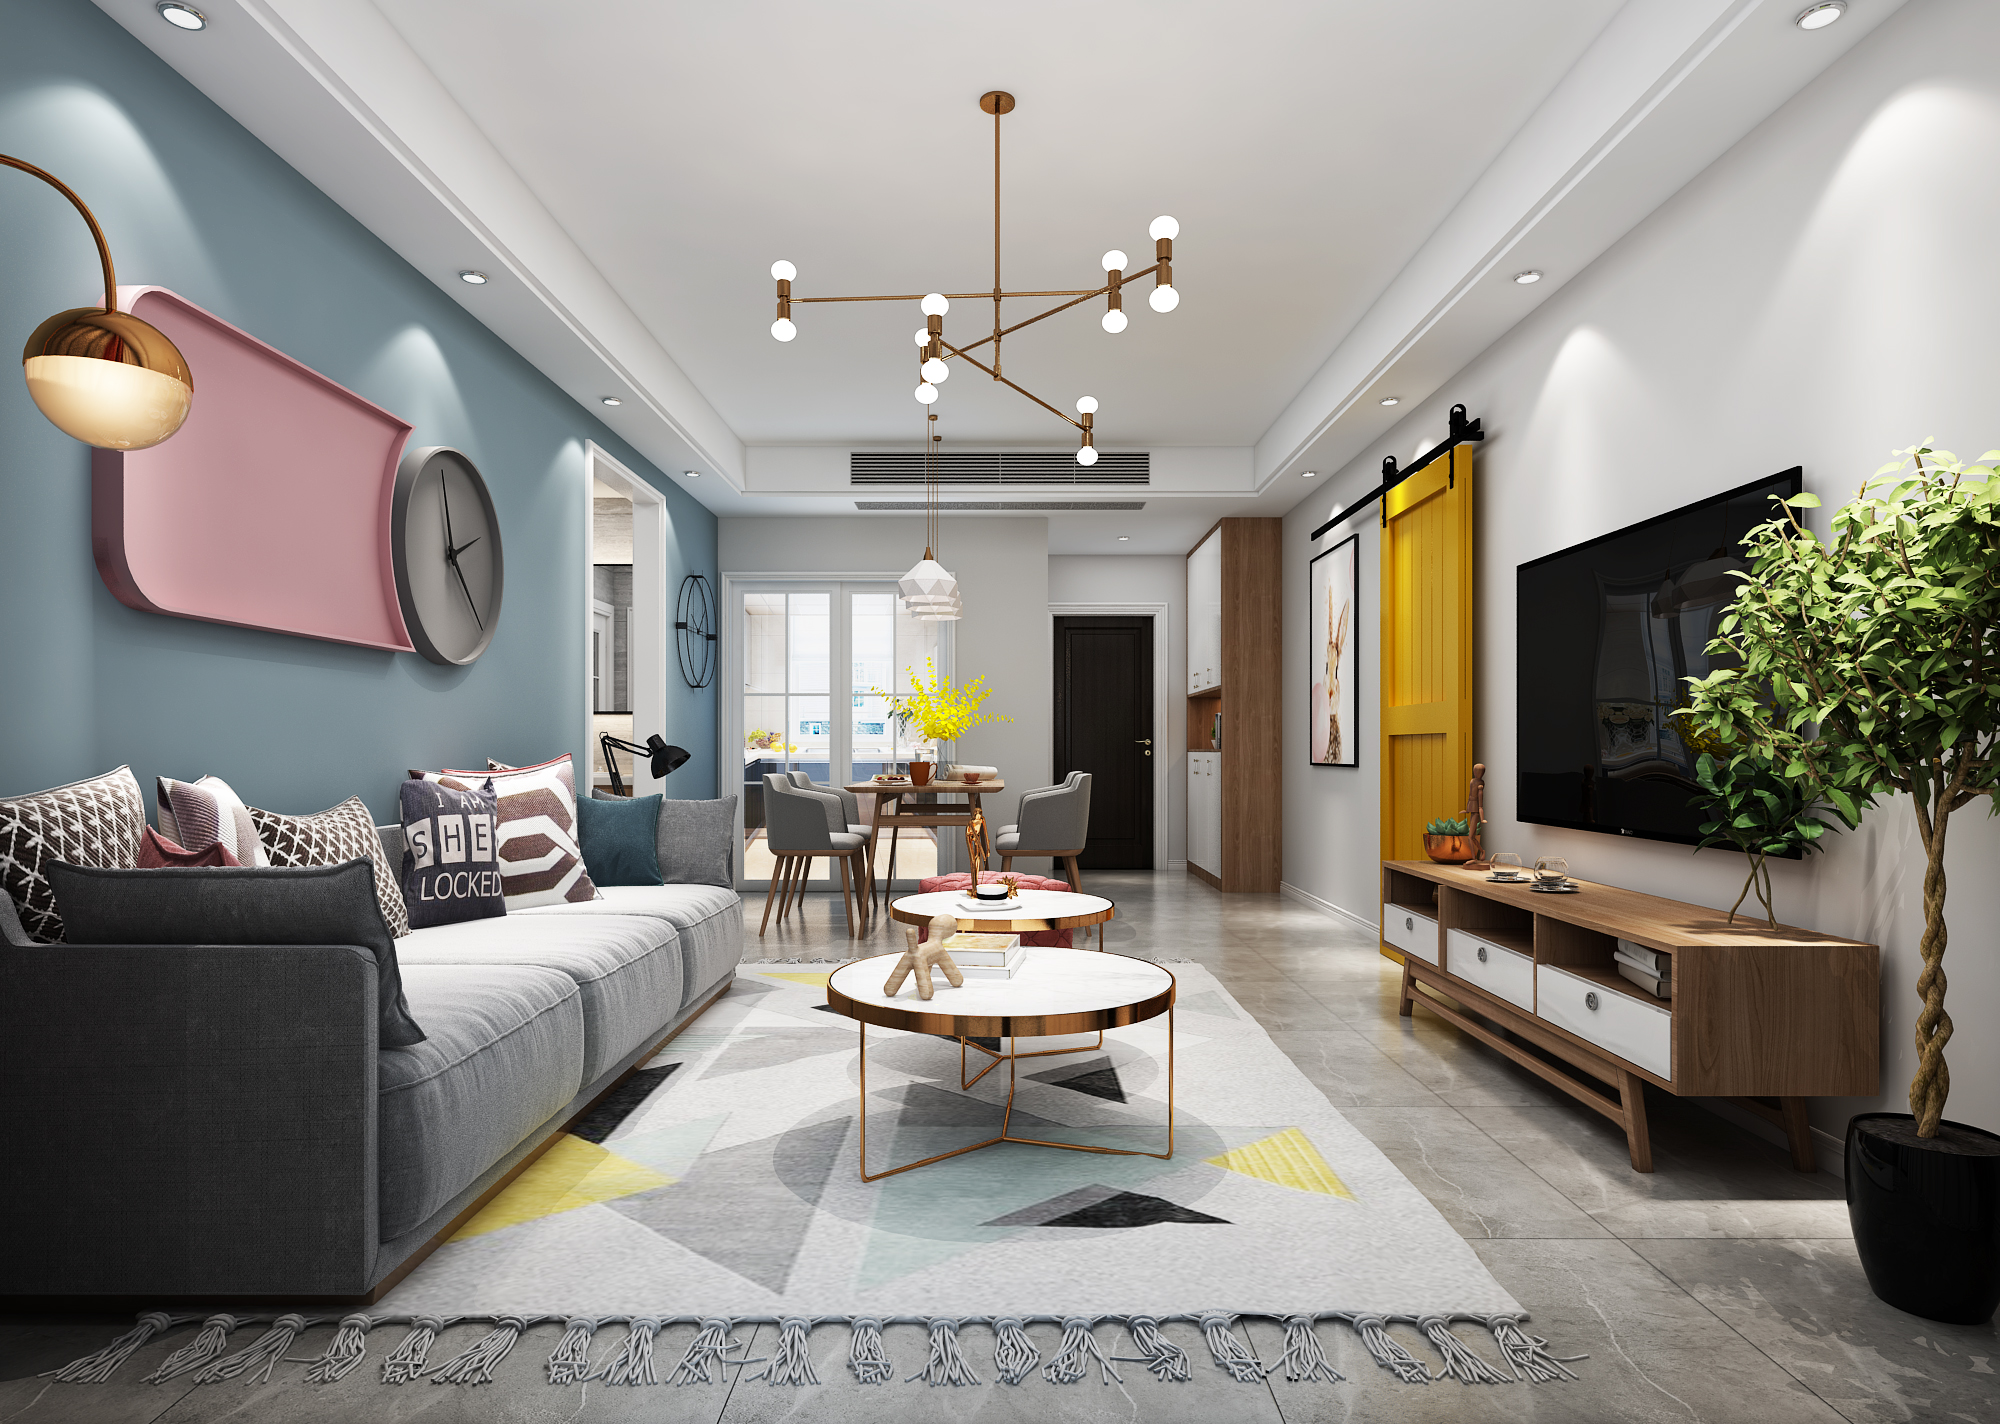
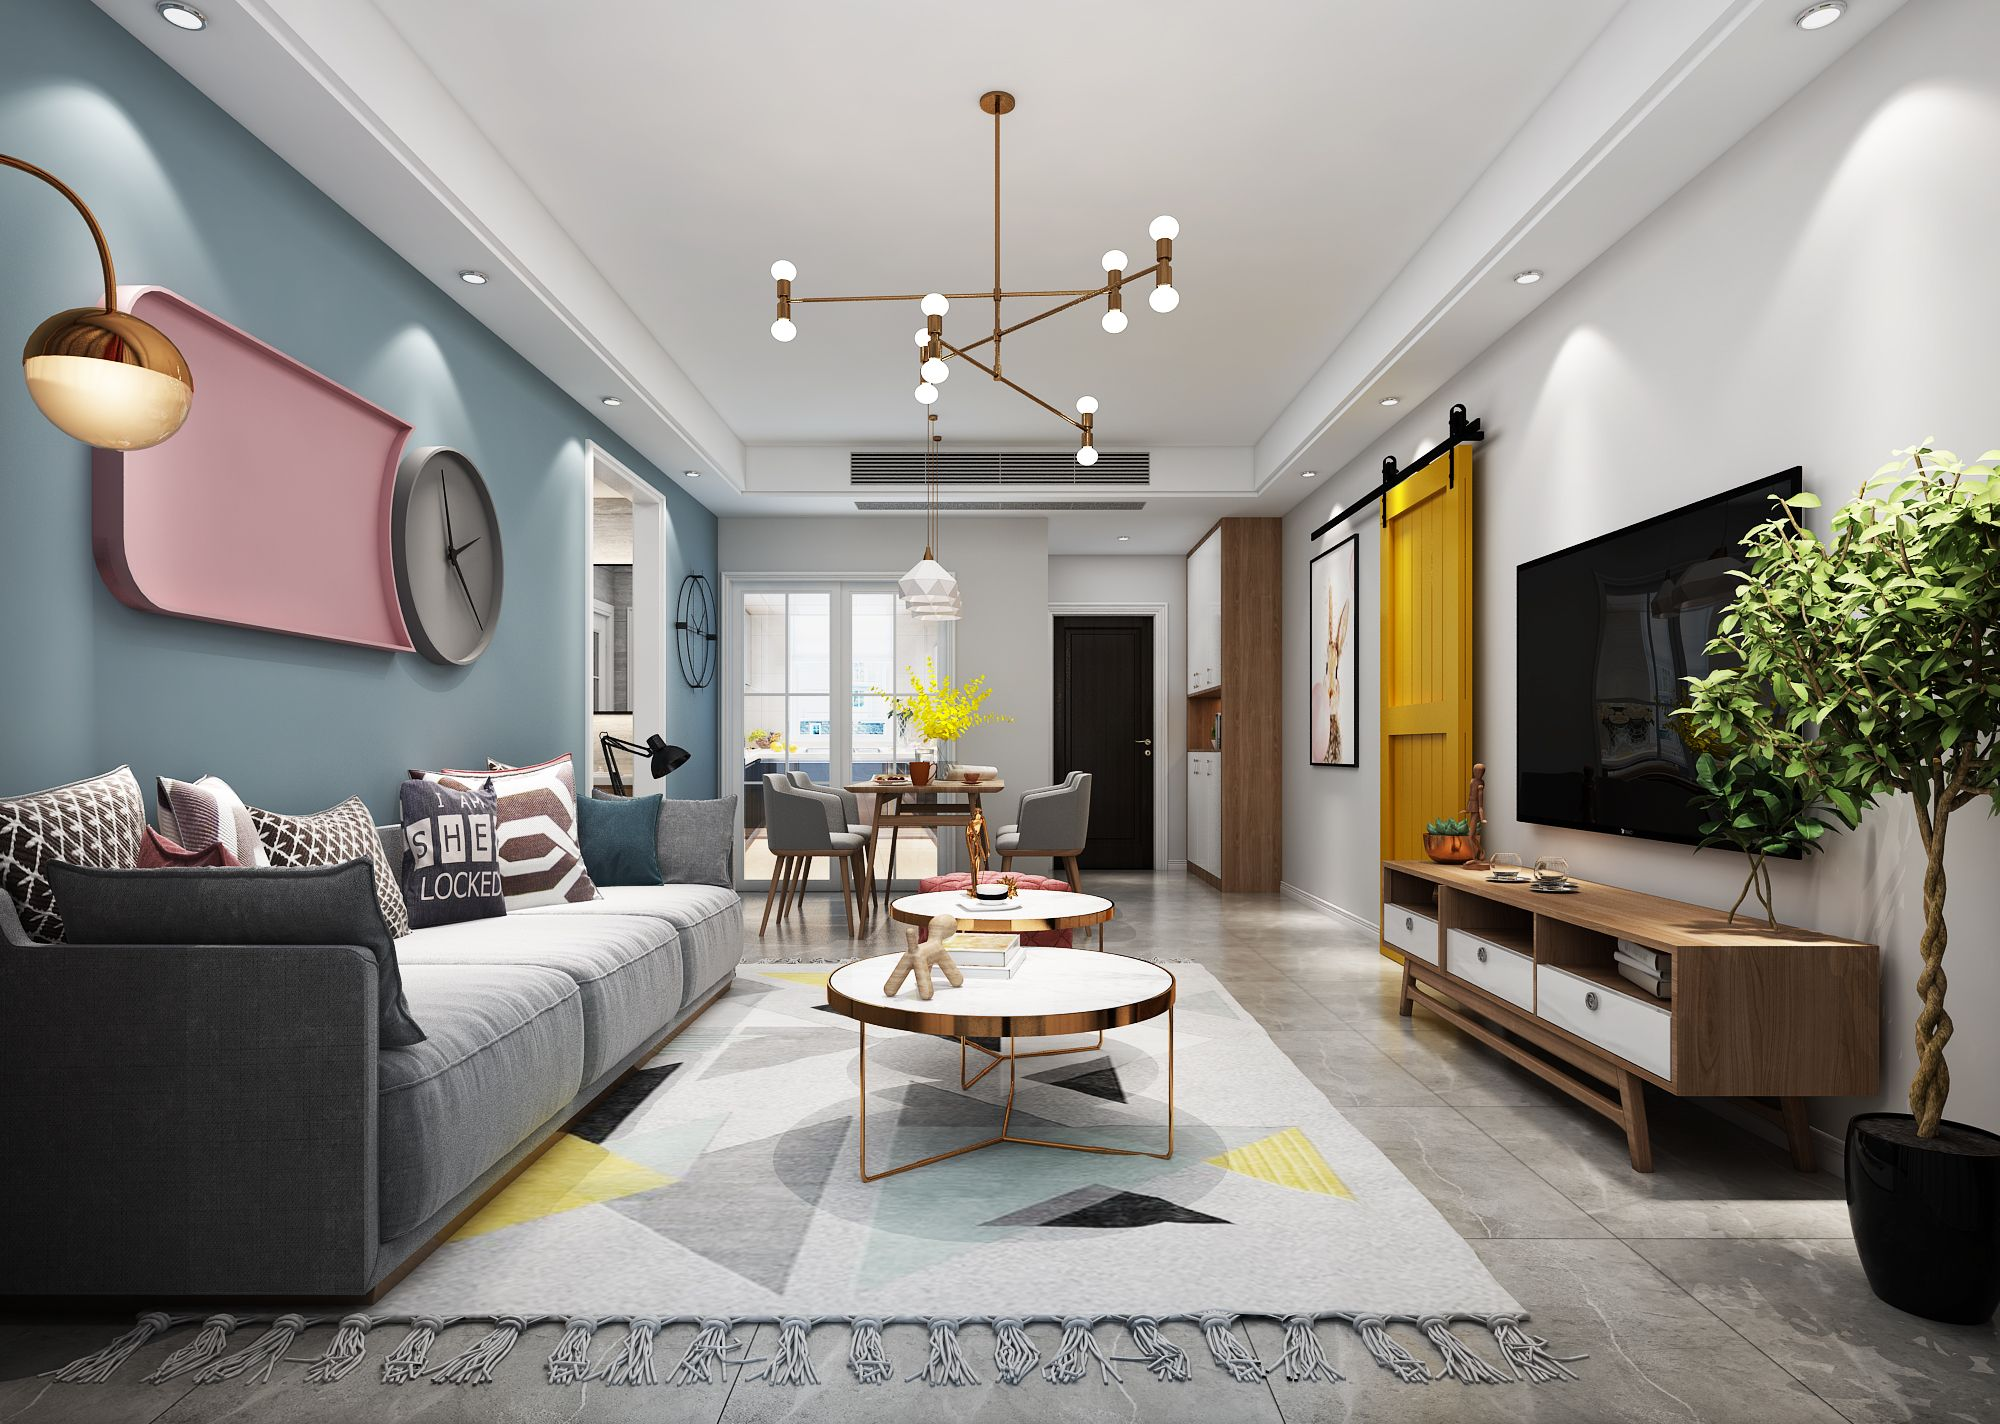
convert to jpg

diff --git a/index.html b/index.html
@@ -78,10 +78,10 @@
 					<!-- Gallery  -->
 						<div class="gallery">
 							<article class="from-left">
-								<a href="images/fulls/01.png" class="image fit"><img src="images/thumbs/01.png" title="Family Room" alt="" /></a>
+								<a href="images/fulls/01.jpg" class="image fit"><img src="images/thumbs/01.jpg" title="Family Room" alt="" /></a>
 							</article>
 							<article class="from-right">
-								<a href="images/fulls/02.png" class="image fit"><img src="images/thumbs/02.png" title="Wet Bar" alt="" /></a>
+								<a href="images/fulls/02.jpg" class="image fit"><img src="images/thumbs/02.jpg" title="Wet Bar" alt="" /></a>
 							</article>
 							<article class="from-left">
 								<a href="images/fulls/03.jpg" class="image fit"><img src="images/thumbs/03.jpg" title="Master Bedroom" alt="" /></a>
@@ -93,7 +93,7 @@
 								<a href="images/fulls/05.jpg" class="image fit"><img src="images/thumbs/05.jpg" title="Office Entrance" alt="" /></a>
 							</article>
 							<article class="from-right">
-								<a href="images/fulls/06.png" class="image fit"><img src="images/thumbs/06.png" title="Bathroom" alt="" /></a>
+								<a href="images/fulls/06.jpg" class="image fit"><img src="images/thumbs/06.jpg" title="Bathroom" alt="" /></a>
 							</article>
 							<article class="from-left">
 								<a href="images/fulls/07.jpg" class="image fit"><img src="images/thumbs/07.jpg" title="Milktea Shop"alt="" /></a>
@@ -108,7 +108,7 @@
 								<a href="images/fulls/10.jpg" class="image fit"><img src="images/thumbs/10.jpg" title="Office Leisure Area" alt="" /></a>
 							</article>
 							<article class="from-left">
-								<a href="images/fulls/11.png" class="image fit"><img src="images/thumbs/11.png" title="Media Room" alt="" /></a>
+								<a href="images/fulls/11.jpg" class="image fit"><img src="images/thumbs/11.jpg" title="Media Room" alt="" /></a>
 							</article>
 							<article class="from-right">
 								<a href="images/fulls/12.jpg" class="image fit"><img src="images/thumbs/12.jpg" title="Front Desk" alt="" /></a>
@@ -126,7 +126,7 @@
 								<a href="images/fulls/16.jpg" class="image fit"><img src="images/thumbs/16.jpg" title="Dance Studio" alt="" /></a>
 							</article>
 							<article class="from-left">
-								<a href="images/fulls/17.png" class="image fit"><img src="images/thumbs/17.png" title="Walkin Closet"alt="" /></a>
+								<a href="images/fulls/17.jpg" class="image fit"><img src="images/thumbs/17.jpg" title="Walkin Closet"alt="" /></a>
 							</article>
 							<article class="from-right">
 								<a href="images/fulls/18.jpg" class="image fit"><img src="images/thumbs/18.jpg" title="Kindergarden" alt="" /></a>
